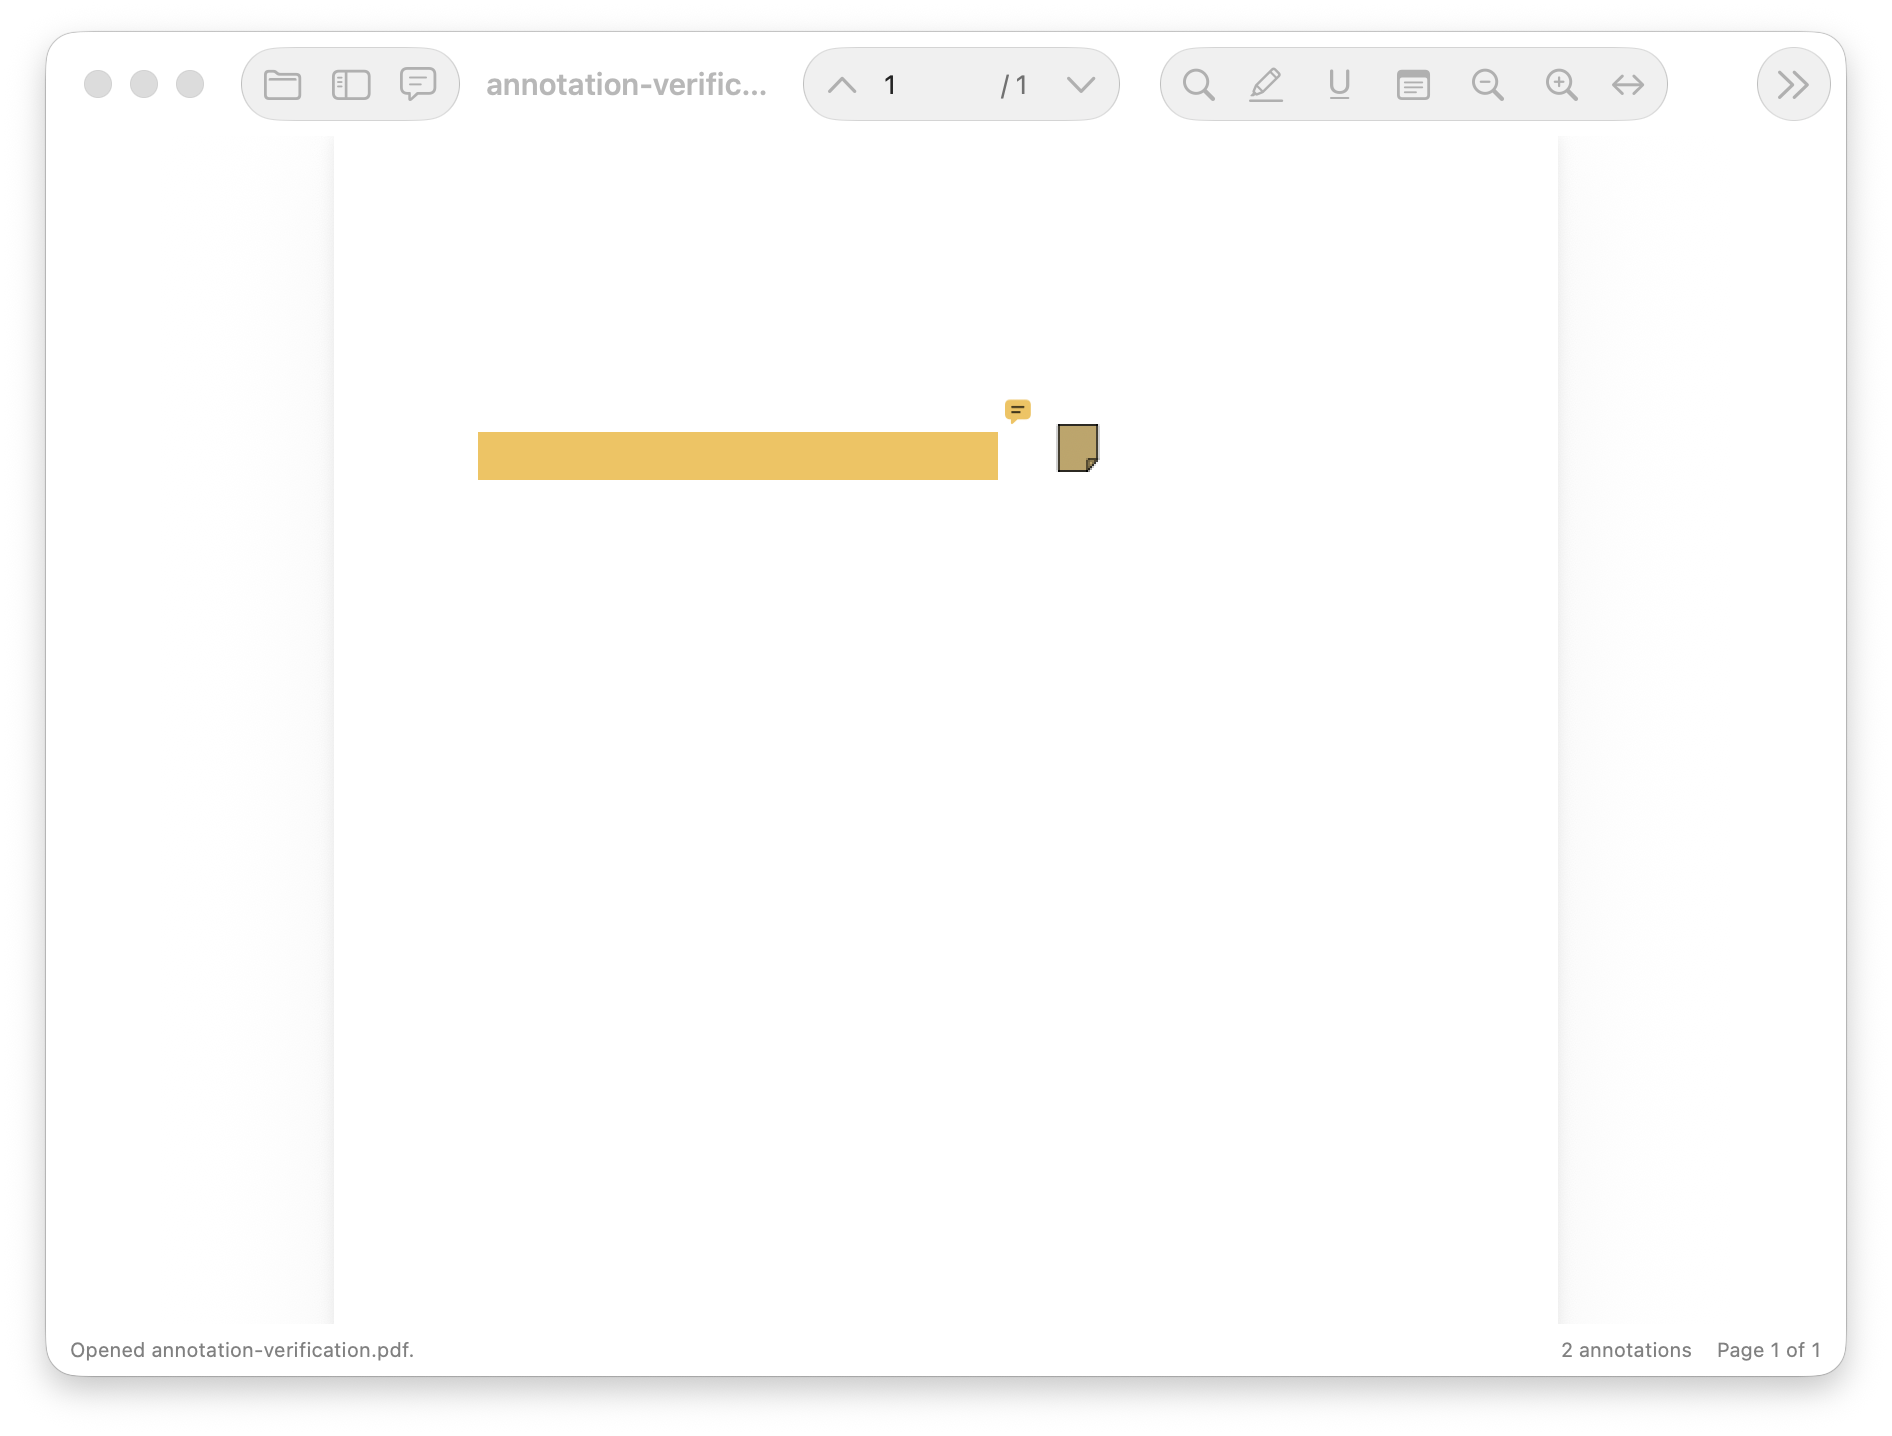
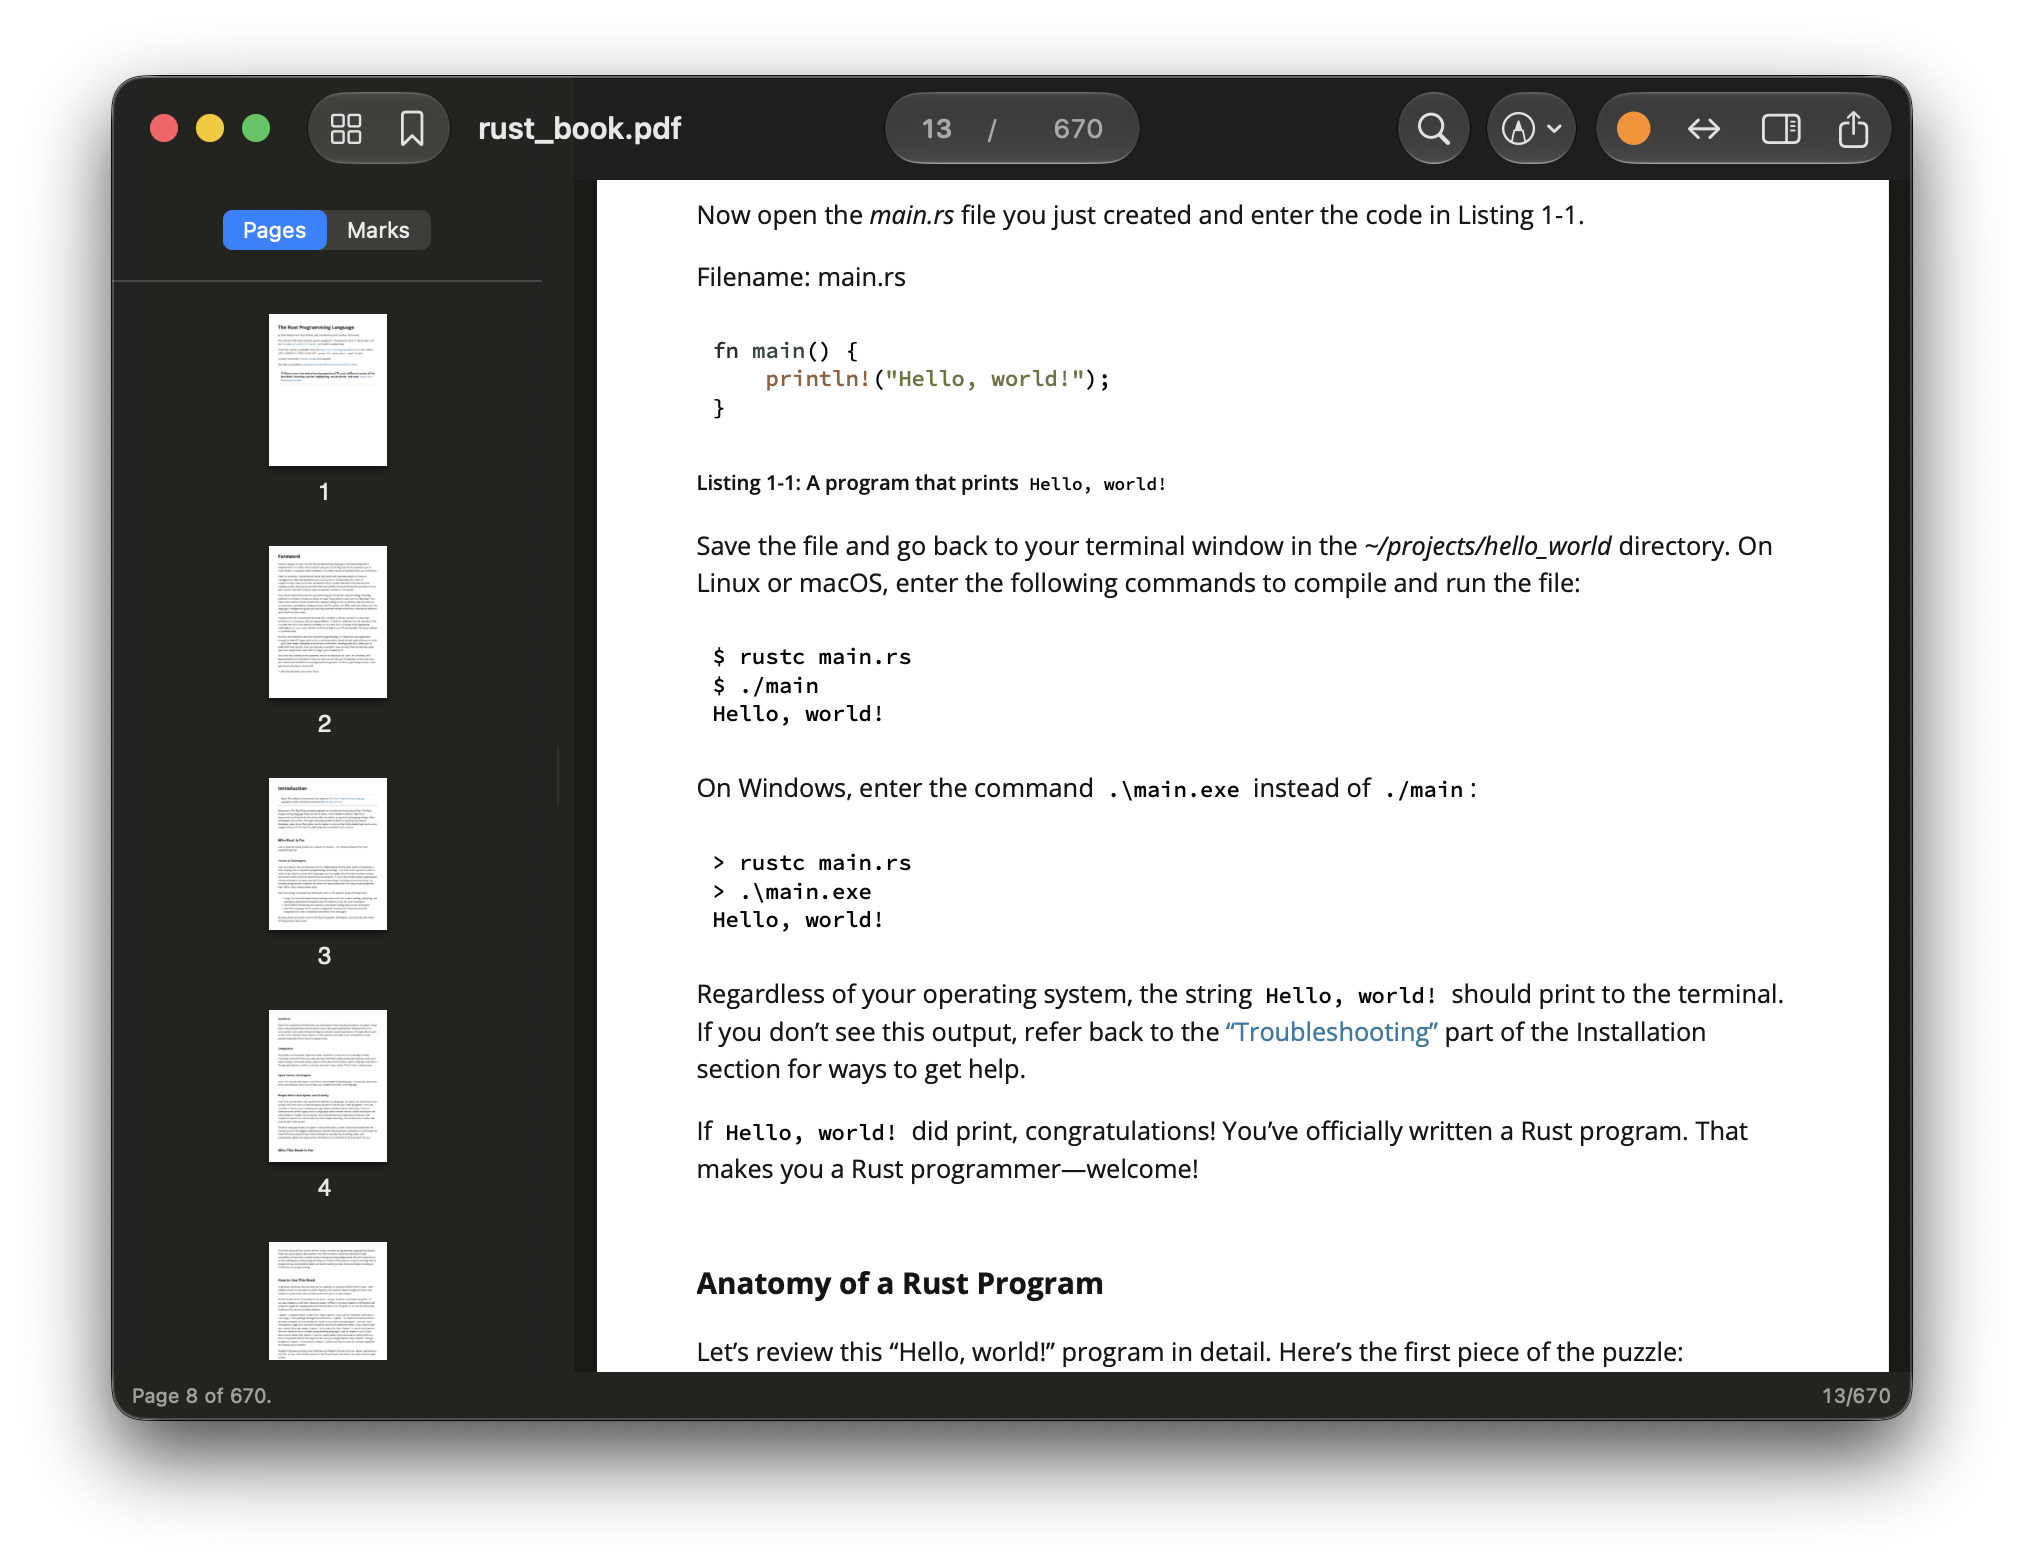
Polish README and add Rust Book screenshots

diff --git a/README.md b/README.md
@@ -52,24 +52,14 @@ The direct-download DMG is separate from the Mac App Store build. The App Store 
 
 ## Features
 
-- Open local `.pdf` files from disk.
-- Drag a PDF onto the empty app window to open it.
-- Read with smooth PDFKit scrolling, Retina rendering, zoom, fit-to-width, fit-to-page, and page navigation.
-- Search selectable text PDFs from a compact toolbar control.
-- Start each opened PDF in a focused single-pane reading layout, with the document fit to the available width and sidebars hidden until requested.
-- Adapt the reader layout across compact, regular, and wide Mac windows while preserving usable PDF width.
-- Configure highlight and comment colors, including opacity, from Settings.
-- Reopen recent PDFs from the empty window or File > Open Recent.
-- Close the current PDF back to the empty window without closing the app window.
-- Create standalone highlights from selected text.
-- Create selected-text comments and underline comments.
-- Create free-text annotations directly on the page.
-- Press Return to save comments and replies, or Shift-Return for a new line.
-- Click commented or underlined text in the PDF to reopen and edit the comment in place.
-- Save annotations directly into the original PDF after an overwrite warning.
-- Save As a new annotated copy.
-- Share the annotated PDF through the native macOS share picker.
-- Review annotations in a comments sidebar with page grouping, search, filters, replies, edit/delete, and click-to-navigate.
+- Incredibly small app size: v0.4 ships as a 957 KB direct-download DMG, with a 253 KB Apple Silicon archive and a 287 KB Intel archive.
+- Extremely fast native PDF reading: built on SwiftUI, AppKit, and PDFKit instead of a bundled browser, runtime, database, or PDF engine.
+- Power- and size-efficient by design: minimal assets, no bundled services, and no background sync workload.
+- Local-first privacy: opens user-selected PDFs from disk and does not require accounts, analytics, tracking, or cloud upload.
+- No internet auto-updater: releases are explicit downloads, so the app is not running update checks in the background.
+- No AI features: no summaries, remote prompts, embeddings, model downloads, or document analysis.
+- Clean review system: focused highlighting, commenting, replies, bookmarks, search, and sidebars that stay hidden until needed.
+- Standards-compatible annotations: comments and highlights are written back into PDFs so they remain useful in common PDF readers.
 
 ## Privacy And Support
 
@@ -159,6 +149,7 @@ Open source contribution policy:
 
 - Contributions are accepted under GPL-2.0-only. See [LICENSE](LICENSE).
 - Vibe coded pull requests are welcome, but they must include clear change documentation, strict QA notes, and screenshots or recordings for UI changes.
+- This project is vibe coded and maintained with AI agents. Feature requests are welcome, and agent-assisted PRs are welcome when they follow the QA and contribution guidelines.
 - Start with [CONTRIBUTING.md](CONTRIBUTING.md) before opening a pull request.
 - UI pull requests must include before/after screenshots or a short screen recording.
 - Screenshots, recordings, and committed media files included with a pull request must each be under 1 MB.

diff --git a/CONTRIBUTING.md b/CONTRIBUTING.md
@@ -4,7 +4,7 @@ I Hate PDFs is a native macOS app for local PDF reading and annotation. Contribu
 
 By contributing, you agree that your contribution is licensed under GNU General Public License version 2 only.
 
-Vibe coded pull requests are welcome. This is a vibe coded repo, but vibe coded does not mean unreviewed: every change must be understandable, documented, tested at the right level, and held to the same strict QA bar as hand-written code.
+This project is vibe coded and maintained with AI agents. Feature requests are welcome; the maintainer will get to them as time allows. Agent-assisted pull requests are welcome too, but vibe coded does not mean unreviewed: every change must be understandable, documented, tested at the right level, and held to the same strict QA bar as hand-written code.
 
 ## Before You Start
 

diff --git a/CHANGELOG.md b/CHANGELOG.md
@@ -15,6 +15,7 @@
 - Consolidated engineering guidance into contributing docs and App Store packaging into release docs.
 - Documented that vibe coded pull requests are welcome when they include clear change documentation, strict QA, and UI screenshots or recordings when relevant.
 - Documented `https://www.akkolli.net/ihatepdfs` as the project website and `[email redacted]` as the support contact.
+- Clarified that the project is vibe coded and maintained with AI agents, and that feature requests and agent-assisted PRs are welcome under the QA guidelines.
 
 ## Version 0.4.0 (build 6) - 2026-06-25
 